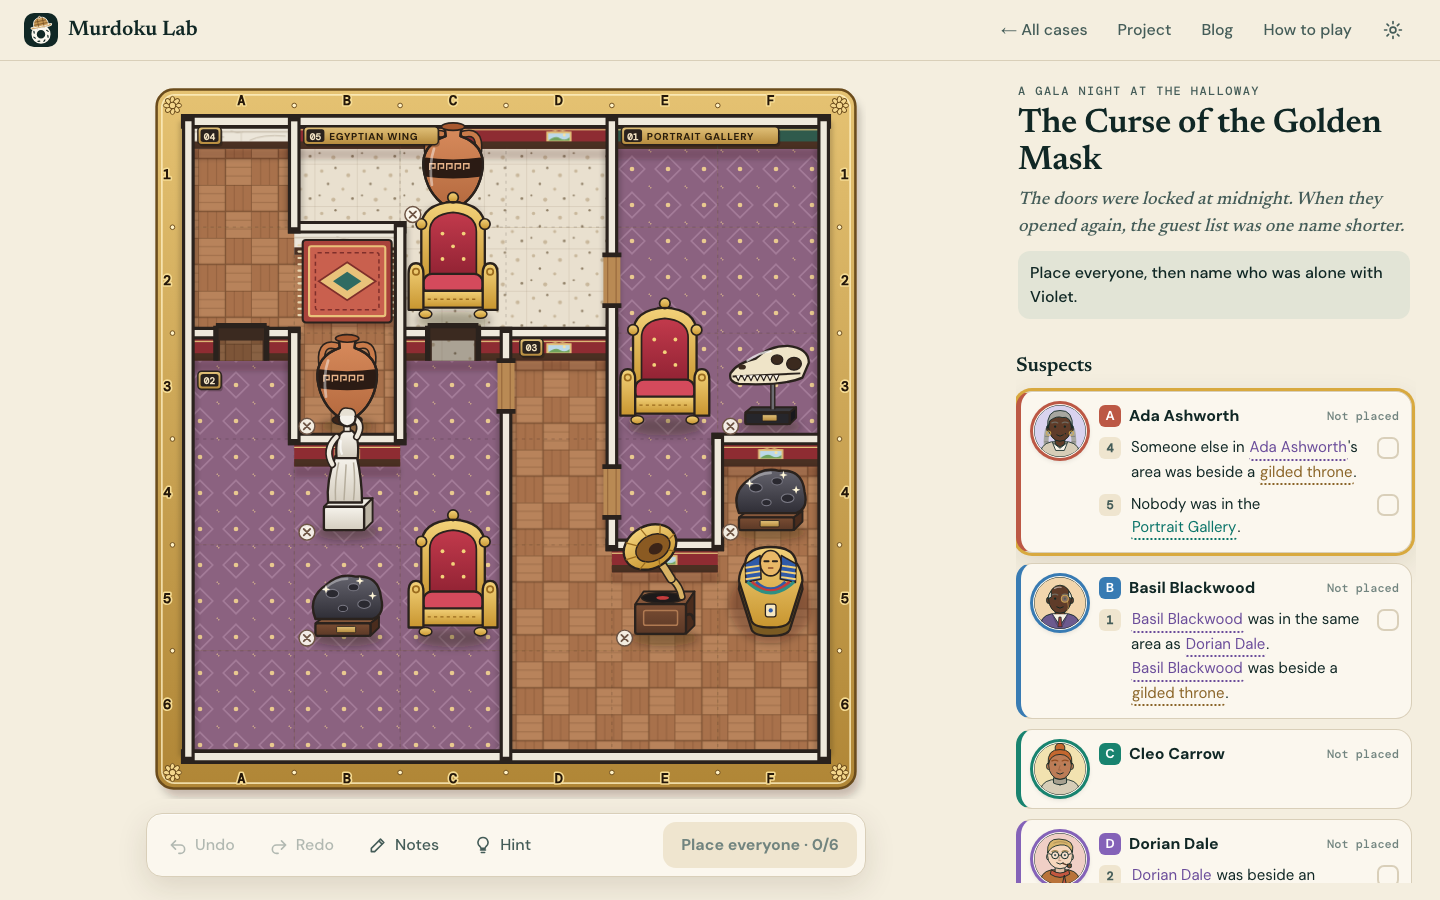
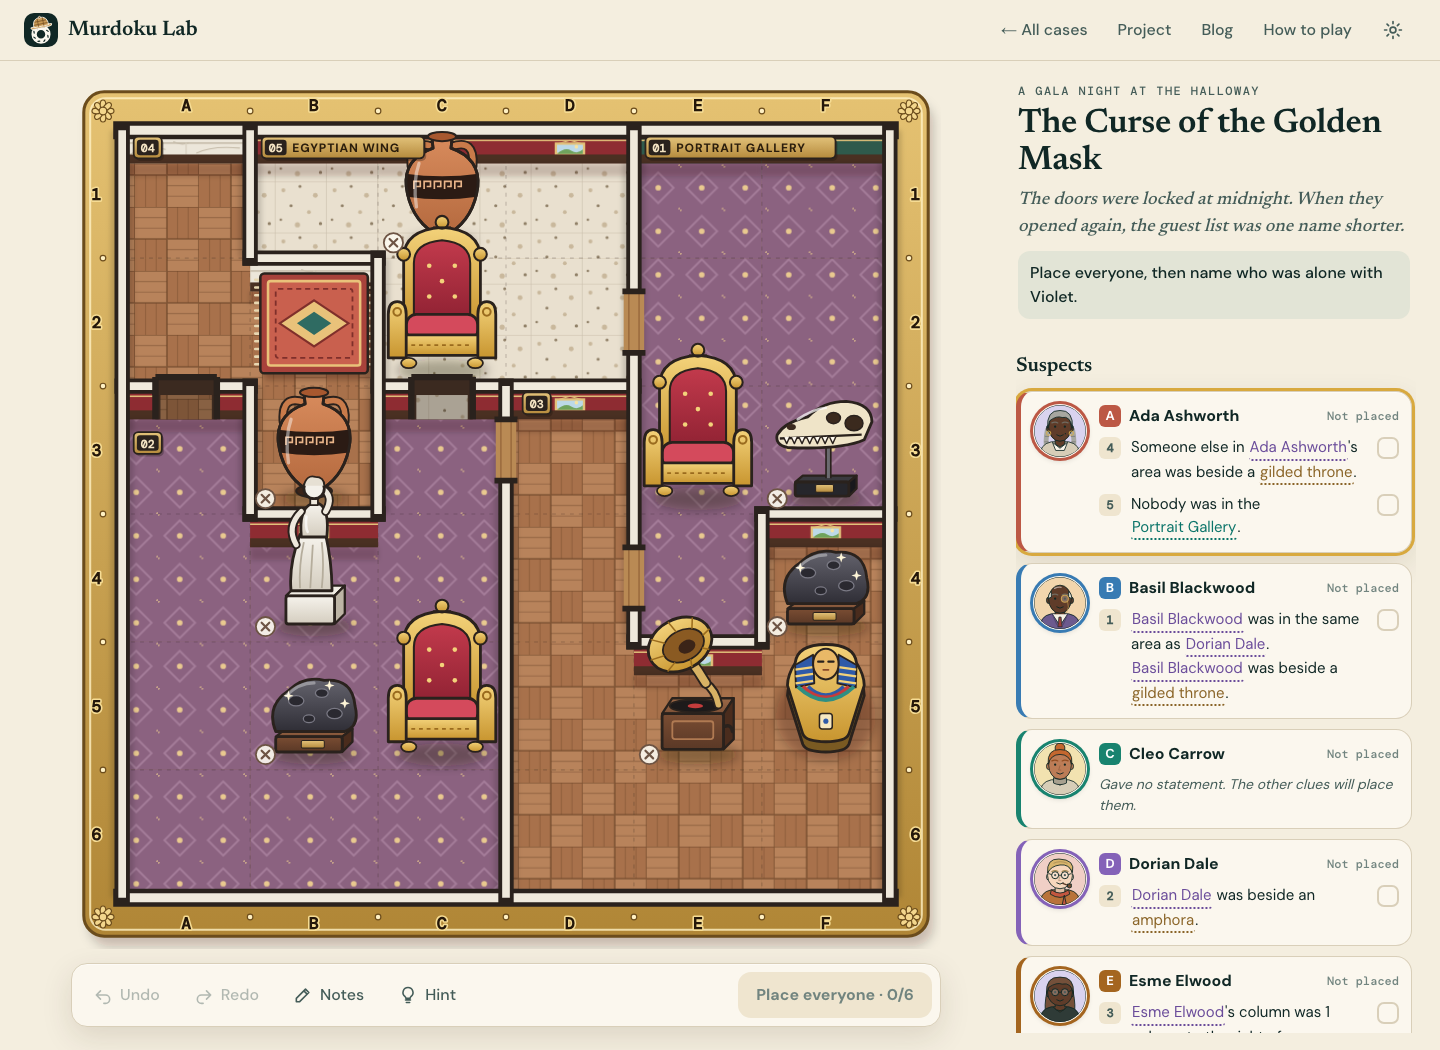
Fix blog whitespace and refresh Murdoku presentation

diff --git a/murdoku/index.html b/murdoku/index.html
@@ -1,4 +1,4 @@
-<!doctype html><html lang="en"><head><meta charset="utf-8"><meta name="viewport" content="width=device-width, initial-scale=1"><title>Murdoku Lab · Everywhere Safety</title><meta name="description" content="A setter, solver and illustrated puzzle workshop for people and agents."><link rel="icon" href="https://avatars.githubusercontent.com/u/334873385?v=4"><link rel="stylesheet" href="../assets/site.css"><style>.project-page{max-width:1100px;padding:55px 0 80px}.project-page h1{font-size:clamp(3rem,7vw,5.5rem);max-width:900px}.project-page h2{font-size:2.2rem;margin:48px 0 15px}.project-page h3{font-size:1.5rem}.project-page p{max-width:850px;font-size:1.08rem;color:var(--soft)}.project-page figure{margin:30px 0}.project-page img{width:100%;border:1px solid var(--line);border-radius:18px}.project-page figcaption{font-size:.85rem;color:var(--muted);margin-top:10px}.project-page .cards{display:grid;grid-template-columns:1fr 1fr;gap:20px}.project-page .card{padding:25px;border:1px solid var(--line);border-radius:16px;background:var(--surface)}.project-page .card p{font-size:1rem}.project-page a{text-underline-offset:4px}.project-page pre{white-space:pre-wrap;background:var(--surface);padding:20px;border-radius:12px;overflow-wrap:anywhere}.project-page .pill{display:inline-block;padding:5px 12px;border-radius:30px;background:var(--accent-light);font-size:.8rem;margin:15px 5px 0 0}@media(max-width:650px){.project-page .cards{grid-template-columns:1fr}.site-header{flex-wrap:wrap;padding:12px 0;gap:10px}nav{flex-wrap:wrap}}</style>
+<!doctype html><html lang="en"><head><meta charset="utf-8"><meta name="viewport" content="width=device-width, initial-scale=1"><title>Murdoku Lab · Everywhere Safety</title><meta name="description" content="A setter, solver and illustrated puzzle workshop for people and agents."><link rel="icon" href="https://avatars.githubusercontent.com/u/334873385?v=4"><link rel="stylesheet" href="../assets/site.css"><style>.project-page{max-width:1000px;padding:48px 0 80px;overflow-wrap:break-word}.project-page h1{font-size:clamp(2.8rem,6vw,4.5rem);max-width:none;line-height:1.03}.project-page h2{font-size:2.2rem;margin:48px 0 15px}.project-page h3{font-size:1.5rem}.project-page p{max-width:none;font-size:1.08rem;color:var(--soft)}.project-page figure{margin:30px 0}.project-page img{display:block;width:100%;height:auto;border:1px solid var(--line);border-radius:18px}.project-page figcaption{font-size:.85rem;color:var(--muted);margin-top:10px}.project-page .cards{display:grid;grid-template-columns:1fr 1fr;gap:20px}.project-page .card{padding:25px;border:1px solid var(--line);border-radius:16px;background:var(--surface)}.project-page .card p{font-size:1rem}.project-page a{text-underline-offset:4px}.project-page pre{white-space:pre-wrap;background:var(--surface);padding:20px;border-radius:12px;overflow-wrap:anywhere}.project-page .pill{display:inline-block;padding:5px 12px;border-radius:30px;background:var(--accent-light);font-size:.8rem;margin:15px 5px 0 0}@media(max-width:650px){.project-page .cards{grid-template-columns:1fr}.site-header{flex-wrap:wrap;padding:12px 0;gap:10px}nav{flex-wrap:wrap}}</style>
 <link rel="canonical" href="https://everywheresafety.github.io/murdoku/">
 <meta name="robots" content="index, follow">
 <meta property="og:type" content="website">
@@ -13,4 +13,16 @@
 <meta name="twitter:description" content="A setter, solver and illustrated puzzle workshop for people and agents.">
 <meta name="twitter:image" content="https://everywheresafety.github.io/murdoku/assets/play-preview.png">
 <script type="application/ld+json">{"@context": "https://schema.org", "@type": "WebPage", "name": "Murdoku Lab \u00b7 Everywhere Safety", "description": "A setter, solver and illustrated puzzle workshop for people and agents.", "url": "https://everywheresafety.github.io/murdoku/", "isPartOf": {"@type": "WebSite", "name": "Everywhere Safety", "url": "https://everywheresafety.github.io/"}, "inLanguage": "en"}</script>
-</head><body><header class="site-header"><a class="brand" href="../">Everywhere Safety<span>.</span></a><nav aria-label="Primary"><a href="../murdoku/">Murdoku Lab</a><a href="../blog/">Blog</a><a href="https://github.com/EverywhereSafety">GitHub ↗</a></nav></header><main class="project-page"><p class="section-kicker">A puzzle workshop for humans and agents</p><h1>Murdoku Lab.</h1><p>More detective puzzles to play, create and analyze. Diverse agentic RL queries with rich semantics and gold rewards.</p><div class="hero-actions"><a class="button primary" href="play/?case=museum">Play the 24×24 museum case →</a><a class="button" href="play/">Browse all cases →</a><a class="button" href="https://github.com/EverywhereSafety/murdoku-lab">Code &amp; generator ↗</a><a class="button" href="../blog/treasure-hunt/">Read the story →</a></div><section class="card" aria-labelledby="museum-case" style="margin-top:30px"><p class="section-kicker">24×24 case</p><h3 id="museum-case">The Museum After Hours</h3><p>Twenty-four people remain after closing. Follow their statements through fifteen museum rooms to identify the murderer.</p><a href="play/?case=museum">Open the museum case →</a></section><figure id="casebook"><img src="assets/play-preview.png" alt="Playable Murdoku frontend with a board, evidence statements and cast"><figcaption>The casebook: place the characters, follow the evidence, identify the murderer.</figcaption></figure><div class="cards"><section class="card"><h3>For players</h3><p>Play generated detective puzzles, follow connected clues, and explore different worlds.</p><a href="play/">Play a case →</a> · <a href="play/lab/">Research Lab →</a> · <a href="https://github.com/EverywhereSafety/murdoku-lab/blob/main/docs/guides/play.md">Create your own →</a> · <a href="#rhythm">What makes a puzzle satisfying?</a></section><section class="card"><h3>For agent builders</h3><p>Export text and visual tasks with stateful tools and executable gold rewards. Use queries for RL, or query + model rollouts for SFT.</p><a href="https://github.com/EverywhereSafety/murdoku-lab/blob/main/docs/guides/rl.md">Connect an RL trainer →</a></section></div><h2>Different worlds to reason about.</h2><p>Vary settings, characters, rooms and objects over verified puzzle structures. Colorful visual assets make those settings visible.</p><figure><img src="assets/semantic-diversity.png" alt="Generated puzzles set in a climbing gym, robotics laboratory and music school"><figcaption>Actual generated visual queries with different semantic settings.</figcaption></figure><h2>One puzzle. Two ways to observe it.</h2><p>A text board or an illustrated screenshot, paired with clues and the same interactive tool interface.</p><figure><img src="assets/query-views.png" alt="A text query and its corresponding visual board"></figure><h2>Solve first. Add the world.</h2><p>Following <a href="https://arxiv.org/abs/2609.27321">VHD-Play</a>, the formal solver establishes the solution before the LLM setter adds the setting and story. The environment uses that solution to provide gold rewards.</p><figure><img src="assets/semantic-pipeline.png" alt="Verified structure, semantic setting, paired query, agent interaction and reward"></figure><h2 id="rhythm">A good puzzle has a rhythm.</h2><p>A way in, discoveries that unlock the next step, and a satisfying reveal. We profile first discoveries, gaps and placement chains to compare how generated puzzles unfold.</p><figure><img src="assets/puzzle-rhythm.png" alt="First discovery, longest discovery gap and deduction progress across 96 generated puzzles"><figcaption>96 generated cases; 12 per board-size and difficulty group. Canonical deduction solver medians and middle 50% of cases.</figcaption></figure><p>The 9×9 sample starts quickly but has longer interruptions later. Opening ease and sustained progress describe different parts of the challenge. <a href="../blog/treasure-hunt/#make-the-clues-worth-following">Explore the measurements in the blog →</a></p><h2>Build an agent that plays.</h2><p><a href="https://github.com/EverywhereSafety/agent-horizon">Agent Horizon</a> supplies long-horizon agentic RL infrastructure on veRL: persistent state, context clearing, asynchronous rollout and training integration.</p><div class="hero-actions"><a class="button" href="https://github.com/EverywhereSafety/agent-horizon">Agent Horizon ↗</a><a class="button" href="https://huggingface.co/datasets/EverywhereSafety/murdoku-lab">Queries &amp; rollouts ↗</a><a class="button" href="https://github.com/EverywhereSafety/murdoku-lab/blob/main/docs/guides/model.md">Trained solver ↗</a></div><h2>Queries, rollouts and a solver.</h2><p>One JSONL with 698 text and 500 visual training queries and successful interactions, plus 106 validation cases in both views. Image assets are included alongside the file.</p><p><a href="https://huggingface.co/EverywhereSafety/murdoku-detective-4b">Murdoku Detective 4B</a> is a trained solver example.</p><p>Inspired by <a href="https://murdoku.com/">Murdoku, by Manuel Garand</a>.</p></main><footer><a class="brand" href="../">Everywhere Safety<span>.</span></a></footer></body></html>
+</head><body><header class="site-header"><a class="brand" href="../">Everywhere Safety<span>.</span></a><nav aria-label="Primary"><a href="../murdoku/">Murdoku Lab</a><a href="../blog/">Blog</a><a href="https://github.com/EverywhereSafety">GitHub ↗</a></nav></header><main class="project-page"><p class="section-kicker">Murdoku Lab · A puzzle workshop for humans and agents</p>
+<h1>More mysteries.<br>Worth solving.</h1>
+<p>Explore illustrated worlds, follow the clues, and place the cast. Murdoku Lab generates detective puzzles with checked solutions, ready to play or export as agent tasks.</p>
+<div class="hero-actions"><a class="button primary" href="play/">Find your next mystery →</a><a class="button" href="play/?case=tutorial">Learn to play →</a><a class="button" href="https://github.com/EverywhereSafety/murdoku-lab">Code &amp; generator ↗</a></div>
+<figure id="casebook"><a href="play/?case=museum-6x6"><img src="assets/play-preview.png" width="1440" height="1050" alt="The Curse of the Golden Mask: an illustrated museum board beside suspect portraits and linked clues"></a><figcaption>A case in the Halloway Museum. Pick a suspect, follow their statement, and place them on the board. <a href="play/?case=museum-6x6">Play this case →</a></figcaption></figure>
+<h2>Eight worlds to investigate.</h2>
+<p>A manor, an ocean liner, a museum, a theatre, a chalet, glasshouses, a night train and a college. Each setting brings its own rooms, furniture, colours and frame.</p>
+<figure><a href="play/#collection"><img src="assets/play-exp-settings.jpg" width="2000" height="1562" loading="lazy" alt="Eight illustrated settings, from Alderwick Manor to the Midnight Meridian and St Aldhelm’s College"></a><figcaption>Browse generated 6×6, 7×7 and 8×8 cases by setting and board size. <a href="play/#collection">Explore the collection →</a></figcaption></figure>
+<h2>A way in. A reason to return.</h2>
+<p>Start with a guided training case, use graded hints when you get stuck, and return for the daily mystery. Notes, undo and saved progress let you work at your own pace.</p>
+<figure><a href="play/"><img src="assets/play-home.png" width="1440" height="1050" loading="lazy" alt="The Murdoku Play homepage with a generated-case entry point and daily mystery"></a><figcaption>The workshop brings the generated collection and daily case together.</figcaption></figure>
+<p>For a longer investigation, try <a href="play/?case=estate">the 16×16 estate</a> or <a href="play/?case=museum">the 24×24 museum</a>. Curious how it started? <a href="../blog/treasure-hunt/">Read the Treasure Hunt story →</a></p>
+<div class="cards"><section class="card"><h3>For players</h3><p>Play generated detective puzzles, follow connected clues, and explore different worlds.</p><a href="play/">Play a case →</a> · <a href="play/lab/">Research Lab →</a> · <a href="https://github.com/EverywhereSafety/murdoku-lab/blob/main/docs/guides/play.md">Create your own →</a> · <a href="#rhythm">What makes a puzzle satisfying?</a></section><section class="card"><h3>For agent builders</h3><p>Export text and visual tasks with stateful tools and executable gold rewards. Use queries for RL, or query + model rollouts for SFT.</p><a href="https://github.com/EverywhereSafety/murdoku-lab/blob/main/docs/guides/rl.md">Connect an RL trainer →</a></section></div><h2>Different worlds to reason about.</h2><p>Vary settings, characters, rooms and objects over verified puzzle structures. Colorful visual assets make those settings visible.</p><figure><img src="assets/semantic-diversity.png" alt="Generated puzzles set in a climbing gym, robotics laboratory and music school"><figcaption>Actual generated visual queries with different semantic settings.</figcaption></figure><h2>One puzzle. Two ways to observe it.</h2><p>A text board or an illustrated screenshot, paired with clues and the same interactive tool interface.</p><figure><img src="assets/query-views.png" alt="A text query and its corresponding visual board"></figure><h2>Solve first. Add the world.</h2><p>Following <a href="https://arxiv.org/abs/2609.27321">VHD-Play</a>, the formal solver establishes the solution before the LLM setter adds the setting and story. The environment uses that solution to provide gold rewards.</p><figure><img src="assets/semantic-pipeline.png" alt="Verified structure, semantic setting, paired query, agent interaction and reward"></figure><h2 id="rhythm">A good puzzle has a rhythm.</h2><p>A way in, discoveries that unlock the next step, and a satisfying reveal. We profile first discoveries, gaps and placement chains to compare how generated puzzles unfold.</p><figure><img src="assets/puzzle-rhythm.png" alt="First discovery, longest discovery gap and deduction progress across 96 generated puzzles"><figcaption>96 generated cases; 12 per board-size and difficulty group. Canonical deduction solver medians and middle 50% of cases.</figcaption></figure><p>The 9×9 sample starts quickly but has longer interruptions later. Opening ease and sustained progress describe different parts of the challenge. <a href="../blog/treasure-hunt/#make-the-clues-worth-following">Explore the measurements in the blog →</a></p><h2>Build an agent that plays.</h2><p><a href="https://github.com/EverywhereSafety/agent-horizon">Agent Horizon</a> supplies long-horizon agentic RL infrastructure on veRL: persistent state, context clearing, asynchronous rollout and training integration.</p><div class="hero-actions"><a class="button" href="https://github.com/EverywhereSafety/agent-horizon">Agent Horizon ↗</a><a class="button" href="https://huggingface.co/datasets/EverywhereSafety/murdoku-lab">Queries &amp; rollouts ↗</a><a class="button" href="https://github.com/EverywhereSafety/murdoku-lab/blob/main/docs/guides/model.md">Trained solver ↗</a></div><h2>Queries, rollouts and a solver.</h2><p>One JSONL with 698 text and 500 visual training queries and successful interactions, plus 106 validation cases in both views. Image assets are included alongside the file.</p><p><a href="https://huggingface.co/EverywhereSafety/murdoku-detective-4b">Murdoku Detective 4B</a> is a trained solver example.</p><p>Inspired by <a href="https://murdoku.com/">Murdoku, by Manuel Garand</a>.</p></main><footer><a class="brand" href="../">Everywhere Safety<span>.</span></a></footer></body></html>

diff --git a/blog/treasure-hunt/index.html b/blog/treasure-hunt/index.html
@@ -13,18 +13,29 @@
 <meta name="twitter:description" content="Manuel Garand confirmed that we were the first to submit the correct answer to the official Murdoku Treasure Hunt. Our solve took about 20 minutes.">
 <meta name="twitter:image" content="https://everywheresafety.github.io/blog/treasure-hunt/assets/play-preview.png">
 <script type="application/ld+json">{"@context": "https://schema.org", "@type": "BlogPosting", "headline": "How we solved the Treasure Hunt in 20 minutes", "description": "Manuel Garand confirmed that we were the first to submit the correct answer to the official Murdoku Treasure Hunt. Our solve took about 20 minutes.", "url": "https://everywheresafety.github.io/blog/treasure-hunt/", "mainEntityOfPage": {"@type": "WebPage", "@id": "https://everywheresafety.github.io/blog/treasure-hunt/"}, "image": ["https://everywheresafety.github.io/blog/treasure-hunt/assets/play-preview.png"], "author": {"@type": "Organization", "name": "Everywhere Safety", "url": "https://everywheresafety.github.io/"}, "publisher": {"@type": "Organization", "name": "Everywhere Safety", "url": "https://everywheresafety.github.io/"}, "inLanguage": "en"}</script>
-<link rel="icon" href="https://avatars.githubusercontent.com/u/334873385?v=4"><link rel="stylesheet" href="https://everywheresafety.github.io/assets/site.css"><style>.project-page{max-width:1100px;padding:55px 0 80px}.project-page h1{font-size:clamp(3rem,7vw,5.5rem);max-width:900px}.project-page h2{font-size:2.2rem;margin:48px 0 15px}.project-page h3{font-size:1.5rem}.project-page p{max-width:850px;font-size:1.08rem;color:var(--soft)}.project-page .article-subtitle{font-size:clamp(1.3rem,2.5vw,1.9rem);line-height:1.35;margin:12px 0 32px}.project-page figure{margin:30px 0}.project-page img{width:100%;border:1px solid var(--line);border-radius:18px}.project-page figcaption{font-size:.85rem;color:var(--muted);margin-top:10px}.project-page .cards{display:grid;grid-template-columns:1fr 1fr;gap:20px}.project-page .card{padding:25px;border:1px solid var(--line);border-radius:16px;background:var(--surface)}.project-page .card p{font-size:1rem}.project-page a{text-underline-offset:4px}.project-page pre{white-space:pre-wrap;background:var(--surface);padding:20px;border-radius:12px;overflow-wrap:anywhere}.project-page .pill{display:inline-block;padding:5px 12px;border-radius:30px;background:var(--accent-light);font-size:.8rem;margin:15px 5px 0 0}@media(max-width:650px){.project-page .cards{grid-template-columns:1fr}.site-header{flex-wrap:wrap;padding:12px 0;gap:10px}nav{flex-wrap:wrap}}.project-links{display:flex;flex-wrap:wrap;gap:10px;margin:36px 0 0}.project-links a{display:inline-flex;align-items:center;padding:11px 16px;border:1px solid var(--line);border-radius:10px;background:var(--surface);color:var(--text);font-size:.95rem;text-decoration:none}.project-links a:hover{border-color:var(--accent);background:var(--accent-light)}.project-links a:focus-visible{outline:2px solid var(--accent);outline-offset:3px}</style></head><body><header class="site-header"><a class="brand" href="https://everywheresafety.github.io/">Everywhere Safety<span>.</span></a><nav aria-label="Primary"><a href="https://everywheresafety.github.io/murdoku/">Murdoku Lab</a><a href="https://everywheresafety.github.io/blog/">Blog</a><a href="https://github.com/EverywhereSafety">GitHub ↗</a></nav></header><main class="project-page"><h1 id="how-we-solved-the-treasure-hunt-in-20-minutes">How we solved the Treasure Hunt in 20 minutes</h1>
+<link rel="icon" href="https://avatars.githubusercontent.com/u/334873385?v=4"><link rel="stylesheet" href="https://everywheresafety.github.io/assets/site.css"><style>.project-page{max-width:850px;padding:55px 0 80px;overflow-wrap:break-word}.project-page h1{font-size:clamp(2.6rem,5vw,4.25rem);max-width:none;line-height:1.05;letter-spacing:-.04em;text-wrap:balance}.project-page h2{font-size:2.2rem;margin:48px 0 15px}.project-page h3{font-size:1.5rem}.project-page p{font-size:1.08rem;line-height:1.75;color:var(--soft)}.project-page .article-subtitle{font-size:clamp(1.2rem,2.2vw,1.6rem);line-height:1.35;margin:12px 0 32px}.project-page table{display:block;max-width:100%;overflow-x:auto;border-collapse:collapse}.project-page th,.project-page td{padding:10px 12px;text-align:left;border-bottom:1px solid var(--line)}.project-page figure{margin:30px 0}.project-page img{display:block;width:100%;border:1px solid var(--line);border-radius:18px}.project-page figcaption{font-size:.85rem;color:var(--muted);margin-top:10px}.project-page .cards{display:grid;grid-template-columns:1fr 1fr;gap:20px}.project-page .card{padding:25px;border:1px solid var(--line);border-radius:16px;background:var(--surface)}.project-page .card p{font-size:1rem}.project-page a{text-underline-offset:4px}.project-page pre{white-space:pre-wrap;background:var(--surface);padding:20px;border-radius:12px;overflow-wrap:anywhere}.project-page .pill{display:inline-block;padding:5px 12px;border-radius:30px;background:var(--accent-light);font-size:.8rem;margin:15px 5px 0 0}@media(max-width:650px){.project-page .cards{grid-template-columns:1fr}.site-header{flex-wrap:wrap;padding:12px 0;gap:10px}nav{flex-wrap:wrap}}.project-links{display:flex;flex-wrap:wrap;gap:10px;margin:36px 0 0}.project-links a{display:inline-flex;align-items:center;padding:11px 16px;border:1px solid var(--line);border-radius:10px;background:var(--surface);color:var(--text);font-size:.95rem;text-decoration:none}.project-links a:hover{border-color:var(--accent);background:var(--accent-light)}.project-links a:focus-visible{outline:2px solid var(--accent);outline-offset:3px}</style></head><body><header class="site-header"><a class="brand" href="https://everywheresafety.github.io/">Everywhere Safety<span>.</span></a><nav aria-label="Primary"><a href="https://everywheresafety.github.io/murdoku/">Murdoku Lab</a><a href="https://everywheresafety.github.io/blog/">Blog</a><a href="https://github.com/EverywhereSafety">GitHub ↗</a></nav></header><main class="project-page"><h1 id="how-we-solved-the-treasure-hunt-in-20-minutes">How we solved the Treasure Hunt in 20 minutes</h1>
 <p class="article-subtitle">and built a workshop for endless puzzles</p>
 
 <p>Manuel Garand confirmed that we were the first to submit the correct answer to the official Murdoku Treasure Hunt. Our solve took about 20 minutes.</p>
 <p>We are fans of Murdoku. A board full of characters, objects and little clues can keep us busy for hours. We wanted more cases to play. Could we build a workshop that keeps making them, with new settings and clues, and the same care for how a puzzle comes together?</p>
 <p>That is what we are building with <strong>Murdoku Lab</strong>. It generates detective puzzles, verifies their solutions and turns them into playable cases. You can also export each case as a text or visual query for an agent.</p>
 <p><a href="https://everywheresafety.github.io/murdoku/play/">Play a case</a> · <a href="https://github.com/EverywhereSafety/murdoku-lab">GitHub</a> · <a href="https://huggingface.co/datasets/EverywhereSafety/murdoku-lab">Queries and rollouts</a></p>
-<p><a href="https://everywheresafety.github.io/murdoku/play/"><img alt="The Murdoku player, with an illustrated board, characters and clues" src="assets/play-preview.png" /></a></p>
+<p><a href="https://everywheresafety.github.io/murdoku/play/"><img alt="The current Murdoku player: an illustrated museum board, suspect portraits and linked clues" src="assets/play-preview.png" /></a></p>
 <h2 id="how-we-solved-the-contest">How we solved the contest</h2>
 <p>The Treasure Hunt has a 24×24 island, 23 people and a hidden treasure. Ships, cabins, clothing and objects all matter to the clues.</p>
 <p>Our <a href="https://huggingface.co/EverywhereSafety/murdoku-detective-4b">Murdoku Detective 4B</a>, trained on generated Murdoku puzzles, read the PDF, transcribed the map and clues, and wrote an OR-Tools CP-SAT program to solve the puzzle.</p>
 <p>The puzzle also gave us a useful example to study. Our deduction trace makes progress well before the first exact placement. Later, ten characters become located within fourteen deduction events. Those are things we want to look for in the puzzles we generate too. The detailed contest analysis is folded away below for readers avoiding spoilers.</p>
+<h2 id="the-workshop-today">The workshop today</h2>
+<p>The player now has eight illustrated settings: a manor, ocean liner, museum,
+theatre, chalet, glasshouses, night train and college. Rooms, furniture, wall
+finishes and board frames change with the setting.</p>
+<p><a href="https://everywheresafety.github.io/murdoku/play/#collection"><img alt="Eight illustrated worlds in Murdoku Play" src="assets/play-exp-settings.jpg" /></a></p>
+<p>The generated collection has 6×6, 7×7 and 8×8 cases. A guided training case teaches
+the rules, graded hints help when you get stuck, and a daily case gives everyone
+a shared mystery. The classic 16×16 estate and 24×24 museum are there for a longer
+investigation.</p>
+<p><a href="https://everywheresafety.github.io/murdoku/play/?case=tutorial">Start with the guided case</a>
+or <a href="https://everywheresafety.github.io/murdoku/play/#collection">browse the collection</a>.</p>
 <h2 id="build-a-case-with-an-answer-we-can-check">Build a case with an answer we can check</h2>
 <p>The generator starts with a board, objects, character placements and constraints. Solvers verify that the clues determine a unique solution. We keep that solution as the answer key.</p>
 <p>The semantic setter adds the setting, names, room labels and clue wording. The answer is already established when this happens. Each themed case is checked against its formal puzzle before export.</p>
